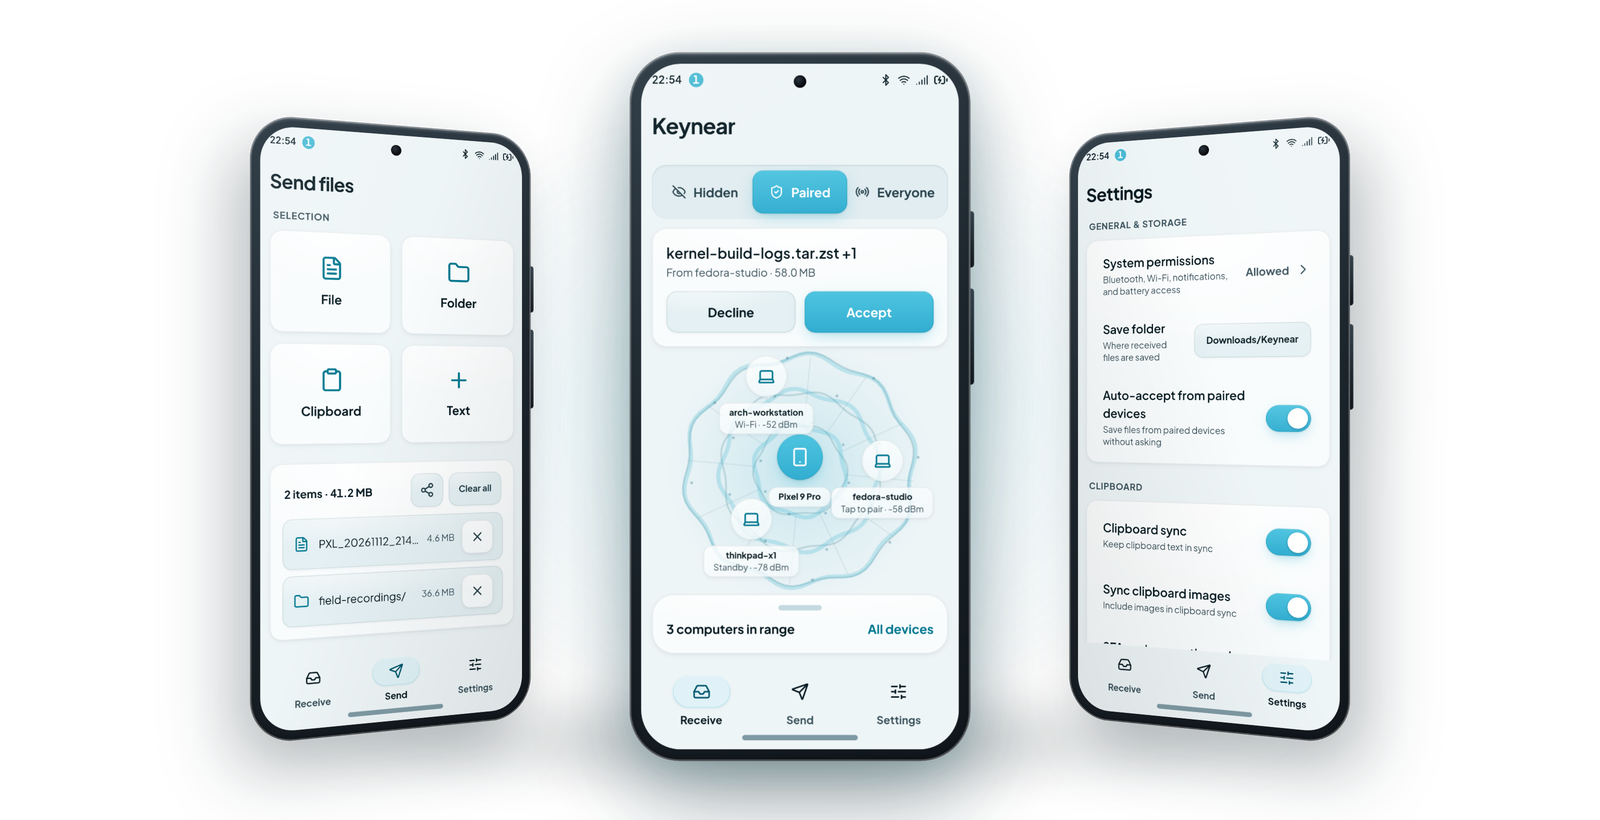
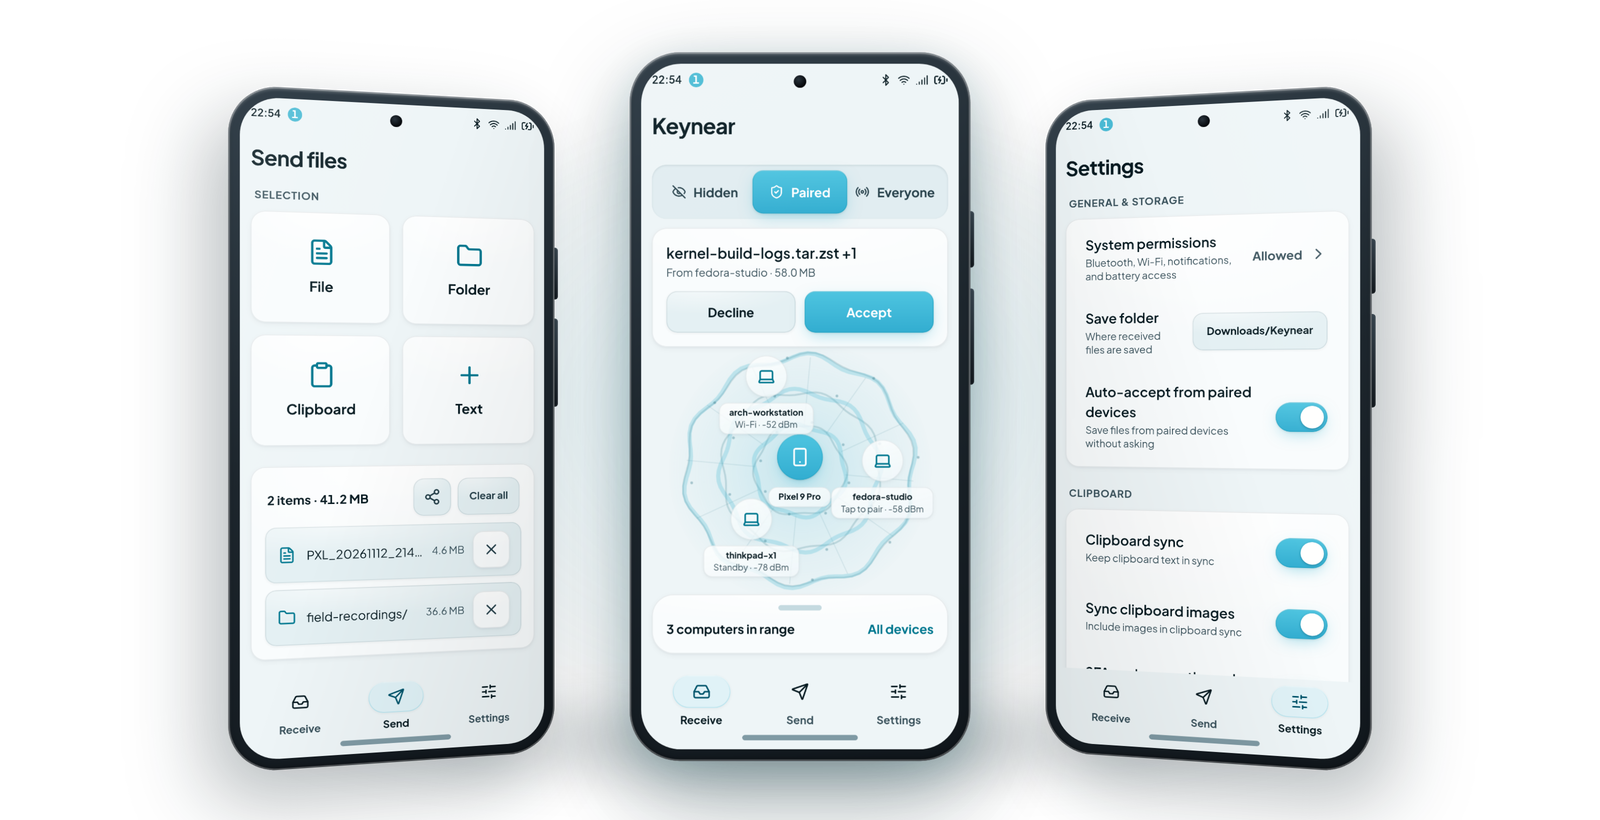
fix: lift badge cyan and turn phones [sweep-elicit-conventions-readme-261126]

Changed region(s): [[0.6562, 0.0915, 0.875, 0.9756], [0.125, 0.0915, 0.375, 0.9756]]

diff --git a/scripts/export/render-readme-screenshots.py b/scripts/export/render-readme-screenshots.py
@@ -70,7 +70,7 @@ HTML_TEMPLATE = """<!doctype html>
     transform-style: preserve-3d;
   }}
   .phone-wrap.left {{
-    transform: translateX(-430px) translateY(20px) translateZ(-120px) rotateY(32deg) scale(0.95);
+    transform: translateX(-430px) translateY(20px) translateZ(-120px) rotateY(20deg) scale(1.05);
     z-index: 2;
     filter: drop-shadow(-20px 30px 36px {side_shadow});
   }}
@@ -80,7 +80,7 @@ HTML_TEMPLATE = """<!doctype html>
     filter: drop-shadow(0px 34px 44px {center_shadow}) drop-shadow(0px 10px 18px {center_shadow_tight});
   }}
   .phone-wrap.right {{
-    transform: translateX(430px) translateY(20px) translateZ(-120px) rotateY(-32deg) scale(0.95);
+    transform: translateX(430px) translateY(20px) translateZ(-120px) rotateY(-20deg) scale(1.05);
     z-index: 2;
     filter: drop-shadow(20px 30px 36px {side_shadow});
   }}

diff --git a/README.md b/README.md
@@ -4,12 +4,12 @@
   <p><strong>Background-first, end-to-end encrypted continuity between Linux and Android</strong></p>
 
   <p>
-    <a href="docs/development/timeline.md"><img src="https://img.shields.io/badge/Version-1.3.0--phoenix-4ABBD5?style=flat-square" alt="Version 1.3.0-phoenix"></a>
-    <a href="https://github.com/hydrafog/keynear/actions/workflows/quality.yml"><img src="https://img.shields.io/github/actions/workflow/status/hydrafog/keynear/quality.yml?branch=main&style=flat-square&color=4ABBD5&logo=githubactions&logoColor=white&label=Quality%20Gate" alt="Quality Gate workflow status"></a>
-    <a href="docs/deployment/linux-systemd.md"><img src="https://img.shields.io/badge/Linux-Wayland%20%26%20X11%20%C2%B7%20StatusNotifierItem-4ABBD5?style=flat-square&logo=linux&logoColor=white" alt="Linux: Wayland, X11, and StatusNotifierItem"></a>
-    <a href="docs/deployment/android-build.md"><img src="https://img.shields.io/badge/Android-12--16%20(API%2031--36)-4ABBD5?style=flat-square&logo=android&logoColor=white" alt="Android 12 to 16 (API 31 to 36)"></a>
-    <a href="docs/architecture/protocol-and-crypto.md"><img src="https://img.shields.io/badge/Crypto-Noise%20XX%20%2B%20ML--KEM--768-4ABBD5?style=flat-square" alt="Cryptography: Noise XX and ML-KEM-768"></a>
-    <a href="LICENSE"><img src="https://img.shields.io/github/license/hydrafog/keynear?style=flat-square&color=4ABBD5&label=License" alt="License: GPL-3.0"></a>
+    <a href="docs/development/timeline.md"><img src="https://img.shields.io/badge/Version-1.3.0--phoenix-7FD4E8?style=flat-square" alt="Version 1.3.0-phoenix"></a>
+    <a href="https://github.com/hydrafog/keynear/actions/workflows/quality.yml"><img src="https://img.shields.io/github/actions/workflow/status/hydrafog/keynear/quality.yml?branch=main&style=flat-square&color=7FD4E8&logo=githubactions&logoColor=white&label=Quality%20Gate" alt="Quality Gate workflow status"></a>
+    <a href="docs/deployment/linux-systemd.md"><img src="https://img.shields.io/badge/Linux-Wayland%20%26%20X11%20%C2%B7%20StatusNotifierItem-7FD4E8?style=flat-square&logo=linux&logoColor=white" alt="Linux: Wayland, X11, and StatusNotifierItem"></a>
+    <a href="docs/deployment/android-build.md"><img src="https://img.shields.io/badge/Android-12--16%20(API%2031--36)-7FD4E8?style=flat-square&logo=android&logoColor=white" alt="Android 12 to 16 (API 31 to 36)"></a>
+    <a href="docs/architecture/protocol-and-crypto.md"><img src="https://img.shields.io/badge/Crypto-Noise%20XX%20%2B%20ML--KEM--768-7FD4E8?style=flat-square" alt="Cryptography: Noise XX and ML-KEM-768"></a>
+    <a href="LICENSE"><img src="https://img.shields.io/github/license/hydrafog/keynear?style=flat-square&color=7FD4E8&label=License" alt="License: GPL-3.0"></a>
   </p>
 </div>
 
